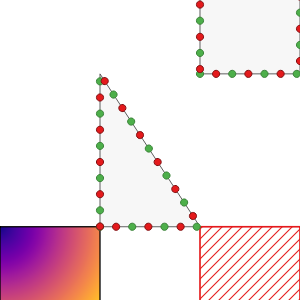
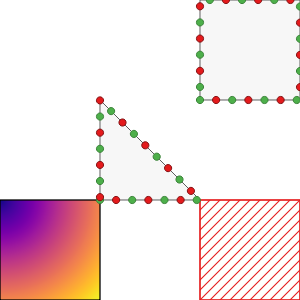
Layer thumbnails are generated in native CRS of the layer

Changed region(s): [[0.0, 0.24, 1.0, 1.0], [0.63, 0.0, 1.0, 0.36]]

diff --git a/src/layman/layer/filesystem/thumbnail.py b/src/layman/layer/filesystem/thumbnail.py
@@ -64,11 +64,12 @@ def generate_layer_thumbnail(workspace, layername):
     headers = {
         settings.LAYMAN_GS_AUTHN_HTTP_HEADER_ATTRIBUTE: settings.LAYMAN_GS_USER,
     }
-    layer_info = get_publication_info(workspace, LAYER_TYPE, layername, context={'keys': ['wms', 'bounding_box']})
+    layer_info = get_publication_info(workspace, LAYER_TYPE, layername, context={'keys': ['wms', 'native_bounding_box', 'native_crs', ]})
     wms_url = layer_info['_wms']['url']
-    raw_bbox = layer_info['bounding_box'] if not bbox_util.is_empty(layer_info['bounding_box']) \
-        else crs_def.CRSDefinitions[crs_def.EPSG_3857].world_bbox
-    bbox = bbox_util.ensure_bbox_with_area(raw_bbox, crs_def.CRSDefinitions[crs_def.EPSG_3857].no_area_bbox_padding)
+    native_bbox = layer_info['native_bounding_box'][:4]
+    native_crs = layer_info['native_crs']
+    raw_bbox = native_bbox if not bbox_util.is_empty(native_bbox) else crs_def.CRSDefinitions[native_crs].world_bbox
+    bbox = bbox_util.ensure_bbox_with_area(raw_bbox, crs_def.CRSDefinitions[native_crs].no_area_bbox_padding)
     tn_bbox = gs_util.get_square_bbox(bbox)
     # Reason: https://github.com/geopython/OWSLib/issues/709
     # tn_img = wms.getmap(
@@ -86,7 +87,7 @@ def generate_layer_thumbnail(workspace, layername):
     # out.close()
 
     from layman.layer.geoserver.wms import VERSION
-    response = gs_util.get_layer_thumbnail(wms_url, layername, tn_bbox, headers=headers, wms_version=VERSION)
+    response = gs_util.get_layer_thumbnail(wms_url, layername, tn_bbox, native_crs, headers=headers, wms_version=VERSION)
     if "png" not in response.headers['content-type'].lower():
         raise LaymanError("Thumbnail rendering failed", data=response.content)
     response.raise_for_status()

diff --git a/src/geoserver/util.py b/src/geoserver/util.py
@@ -9,6 +9,7 @@ from urllib.parse import urljoin
 import requests
 from owslib import wms as owslib_wms, wfs as owslib_wfs
 
+from crs import util as crs_util
 from . import GS_REST_ROLES, GS_REST_USERS, GS_REST_SECURITY_ACL_LAYERS, GS_REST_WORKSPACES, GS_REST_STYLES, GS_AUTH,\
     GS_REST_WMS_SETTINGS, GS_REST_WFS_SETTINGS, GS_REST_USER, GS_REST_SETTINGS, GS_REST, GS_REST_TIMEOUT
 from .error import Error
@@ -989,14 +990,15 @@ def get_square_bbox(bbox):
     return square_bbox
 
 
-def get_layer_thumbnail(wms_url, layername, bbox, headers=None, wms_version='1.3.0'):
+def get_layer_thumbnail(wms_url, layername, bbox, crs, headers=None, wms_version='1.3.0', ):
+    wms_bbox = crs_util.get_wms_bbox(crs, bbox, wms_version)
     response = requests.get(wms_url, params={
         'SERVICE': 'WMS',
         'REQUEST': 'GetMap',
         'VERSION': wms_version,
         'LAYERS': layername,
-        'CRS': 'EPSG:3857',
-        'BBOX': ','.join([str(c) for c in bbox]),
+        'CRS': crs,
+        'BBOX': ','.join([str(c) for c in wms_bbox]),
         'WIDTH': 300,
         'HEIGHT': 300,
         'FORMAT': 'image/png',

diff --git a/src/crs/__init__.py b/src/crs/__init__.py
@@ -12,6 +12,8 @@ CRSTypeDef = namedtuple('CRSTypeDef', [
     # Maximum coordinates of other CRS, which can be transformed
     'world_bounds',
     'qgis_template_spatialrefsys',
+    # Boolean value, True if CRS definition in epsg.org DB specify axes in easting-northing order
+    'axes_order_east_north_in_epsg_db',
 ])
 
 EPSG_3857 = 'EPSG:3857'
@@ -43,6 +45,7 @@ CRSDefinitions = {
           <projectionacronym>merc</projectionacronym>
           <ellipsoidacronym>WGS84</ellipsoidacronym>
           <geographicflag>false</geographicflag>''',
+        axes_order_east_north_in_epsg_db=True,
     ),
     EPSG_4326: CRSTypeDef(
         world_bbox=(
@@ -66,5 +69,6 @@ CRSDefinitions = {
             <projectionacronym>longlat</projectionacronym>
             <ellipsoidacronym>EPSG:7030</ellipsoidacronym>
             <geographicflag>true</geographicflag>''',
-    )
+        axes_order_east_north_in_epsg_db=False,
+    ),
 }

diff --git a/tests/static_data/single_publication/layers_test.py b/tests/static_data/single_publication/layers_test.py
@@ -162,7 +162,7 @@ def test_wms_layer(workspace, publ_type, publication):
         bbox = bbox_util.ensure_bbox_with_area(raw_bbox, crs_def.CRSDefinitions[crs].no_area_bbox_padding)
         tn_bbox = gs_util.get_square_bbox(bbox)
 
-        response = gs_util.get_layer_thumbnail(wms_url, publication, tn_bbox, headers=authn_headers, wms_version=VERSION)
+        response = gs_util.get_layer_thumbnail(wms_url, publication, tn_bbox, crs_def.EPSG_3857, headers=authn_headers, wms_version=VERSION)
         response.raise_for_status()
         assert 'image' in response.headers['content-type'], f'response.headers={response.headers}, response.content={response.content}'
 

diff --git a/src/crs/util.py b/src/crs/util.py
@@ -1,0 +1,10 @@
+from . import CRSDefinitions
+
+
+def get_wms_bbox(crs, bbox, wms_version):
+    wms_version_as_list = [int(value) for value in wms_version.split('.')]
+    if CRSDefinitions[crs].axes_order_east_north_in_epsg_db or wms_version_as_list < [1, 3, 0]:
+        result = bbox
+    else:
+        result = [bbox[1], bbox[0], bbox[3], bbox[2], ]
+    return result

diff --git a/CHANGELOG.md b/CHANGELOG.md
@@ -13,6 +13,7 @@
 - [#64](https://github.com/LayerManager/layman/issues/64) Responses of [GET Layers](doc/rest.md#get-layers), [GET Workspace Layers](doc/rest.md#get-workspace-layers), [GET Workspace Layer](doc/rest.md#get-workspace-layer), [PATCH Workspace Layer](doc/rest.md#patch-workspace-layer), [GET Maps](doc/rest.md#get-maps), [GET Workspace Maps](doc/rest.md#get-workspace-maps), [GET Workspace Map](doc/rest.md#get-workspace-map), [PATCH Workspace Map](doc/rest.md#patch-workspace-map) contains new attribute
    - `native_crs` with code of native CRS in form "EPSG:&lt;code&gt;", e.g. "EPSG:4326"
    - `native_bounding_box` with coordinates and CRS of native CRS  [minx, miny, maxx, maxy, "EPSG:&lt;code&gt;"]
+- [#64](https://github.com/LayerManager/layman/issues/64) Layer thumbnails are generated in native CRS of the layer.
 - [#489](https://github.com/LayerManager/layman/issues/489) Error responses from Micka and GeoServer are logged into log and also propagated as part of raised exception, so they can be seen from flower.
 - Remove [LAYMAN_SETTINGS_MODULE](https://github.com/LayerManager/layman/blob/v1.15.0/doc/env-settings.md), import [`src/layman_settings.py`](src/layman_settings.py) directly.
 
